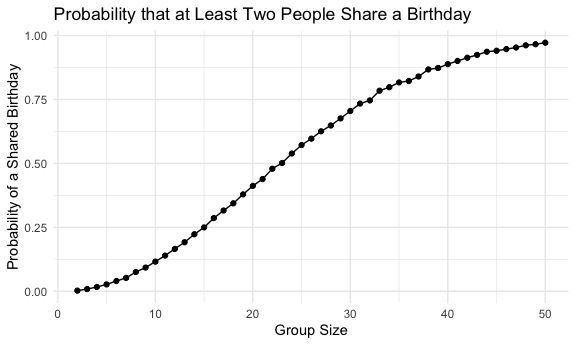
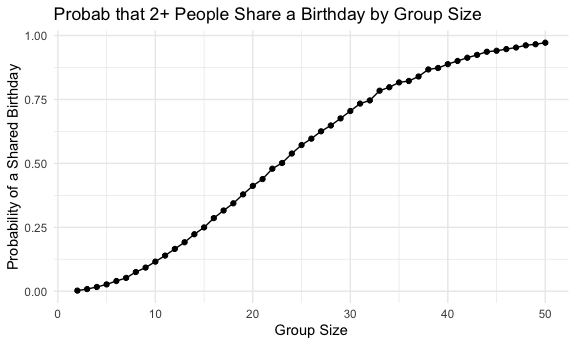
edits of explanations

Changed region(s): [[0.1875, 0.0, 0.8438, 0.058]]

diff --git a/p8105_hw5_nck2132.md b/p8105_hw5_nck2132.md
@@ -55,7 +55,7 @@ birthday_sim_df |>
   geom_point() +
   geom_line() +
   labs(
-    title = "Probability that at Least Two People Share a Birthday",
+    title = "Probab that 2+ People Share a Birthday by Group Size ",
     x = "Group Size",
     y = "Probability of a Shared Birthday"
   )
@@ -63,9 +63,11 @@ birthday_sim_df |>
 
 <img src="p8105_hw5_nck2132_files/figure-gfm/unnamed-chunk-3-1.png" alt="" width="90%" />
 Plotting the probability of sharing the same birthday as a function of
-group size is a signmoidal curve. Generally the probability of sharing a
-birthday increases as group size increases peaking at almost 1 or 100%
-when group size is 50.
+group size results in a signmoidal curve. Generally the probability of
+sharing a birthday increases as group size increases peaking at almost 1
+or 100% when group size is 50.The steepest increase in probability of
+atleast two people sharing a birthday is between group size 10 to 30
+people.
 
 ## Q2
 
@@ -336,17 +338,28 @@ sim_results_df |>
 ```
 
 <img src="p8105_hw5_nck2132_files/figure-gfm/unnamed-chunk-8-1.png" alt="" width="90%" />
-For true mu values above 4, the sample average of mu hat across tests
-for which the null is rejected is approximately equal to the true value
-of mu but before true mu values of 5 this is not the case. In the graph,
-this is where the yellow and purple lines meet. For smaller true mu
-values (1–3), it is not equal: the average of mu hat for rejected tests
-is higher than the true mu.
+No the sample average of mu across tests for which the null is rejected
+is not approximately equal to the true value of mu for all values of
+true mu. For smaller true mu values (1–3), it is not equal: the average
+of mu hat for rejected tests is higher than the true mu.
 
-This is because when the true mu is smaller, more values fall below the
-cutoff point of significance, so the test only rejects the samples that
-happened to have a high estimate of mu This makes their average too
-high. When the true mu is higher, fewer values fall below the cutoff
-point of significance, so almost all samples are rejected (power is
-close to 1), and the average of the rejected samples is about the same
-as the average of all samples, which equals the true mu.
+For true mu values above 4, the sample average of mu across tests for
+which the null is rejected IS approximately equal to the true value of
+mu. In the graph, this is where the yellow and purple lines meet.
+
+The gap between the two lines comes from how the test decides to reject.
+With n = 30 and σ = 5, the standard error of μ̂ is about 5/√30 ≈ 0.91. A
+two-sided t-test at α = 0.05 therefore needs μ̂ to land about 2 standard
+errors from zero, roughly 1.9, before it rejects. When the true μ is 1,
+a typical estimate doesn’t get that far, so the only datasets that make
+it into the “rejected” group are the ones that overshot. That’s why the
+yellow point at μ = 1 sits at about 2.25, more than double the truth.
+The same thing happens, less dramatically, at μ = 2 (≈ 2.6) and μ = 3 (≈
+3.2). Once μ reaches 4, almost every dataset clears the 1.9 threshold,
+so being rejected says little about whether a sample was unusually high.
+The rejected group is basically all the samples, and the two lines
+overlap. At μ = 0, the rejected samples split between large positive and
+large negative estimates. These mostly offset each other, so the yellow
+point (≈ 0.3) stays close to 0. In short, keeping only the significant
+results selects the samples that overestimated μ, and that matters most
+when power is low.
